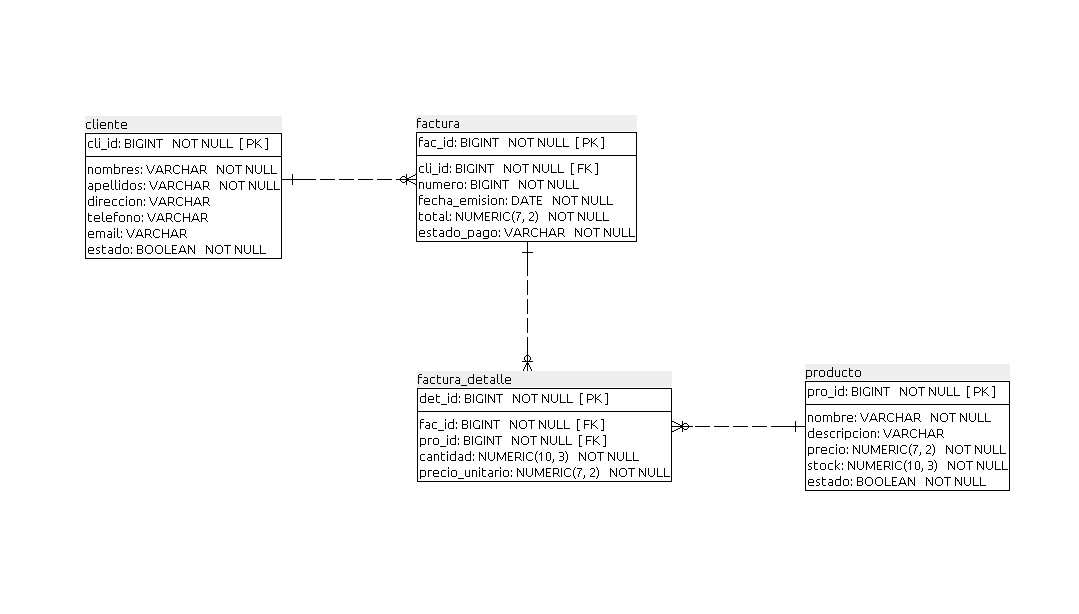
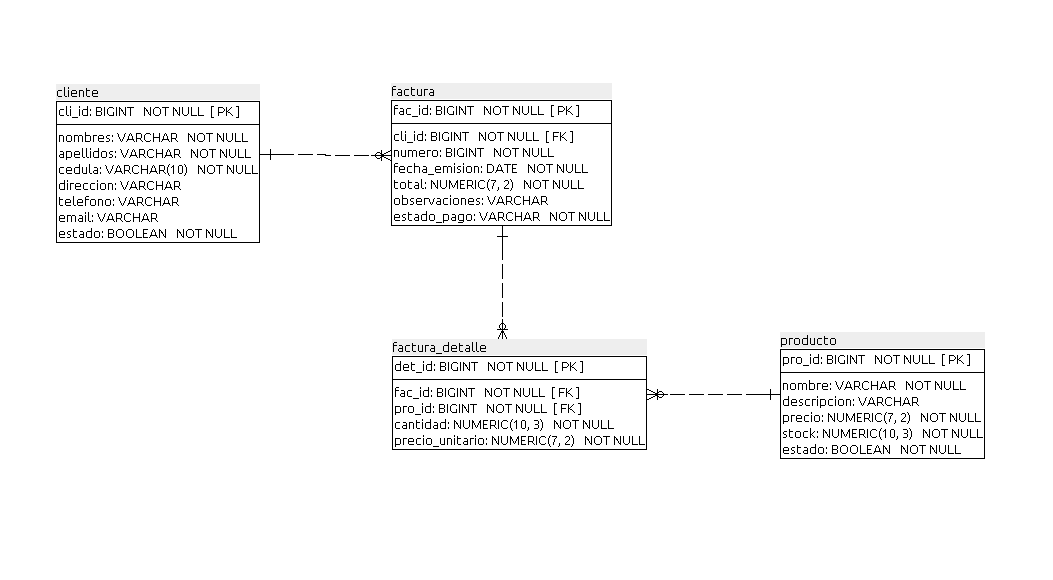
Cambio ResponseEntity para resultados en controller

diff --git a/facturacion-backend/src/main/java/com/restapi/facturacion_backend/presentation/controller/FacturaController.java b/facturacion-backend/src/main/java/com/restapi/facturacion_backend/presentation/controller/FacturaController.java
@@ -3,11 +3,9 @@ package com.restapi.facturacion_backend.presentation.controller;
 import com.restapi.facturacion_backend.business.service.FacturaService;
 import com.restapi.facturacion_backend.business.vo.FacturaUpdateVO;
 import com.restapi.facturacion_backend.business.vo.FacturaVO;
-import com.restapi.facturacion_backend.presentation.util.handler.ResponseHandler;
 import jakarta.validation.Valid;
 import jakarta.validation.constraints.NotNull;
 import org.springframework.beans.factory.annotation.Autowired;
-import org.springframework.http.HttpStatus;
 import org.springframework.http.ResponseEntity;
 import org.springframework.validation.annotation.Validated;
 import org.springframework.web.bind.annotation.*;
@@ -22,29 +20,27 @@ public class FacturaController {
 
     @GetMapping("/siguiente-numero")
     public ResponseEntity<Object> obtenerNumero() {
-        return ResponseHandler.generateResponse(HttpStatus.OK, facturaService.obtenerSiguienteNumero());
+        return ResponseEntity.ok(facturaService.obtenerSiguienteNumero());
     }
 
     @GetMapping("/listar-todas")
     public ResponseEntity<Object> obtenerFacturas() {
-        return ResponseHandler.generateResponse(HttpStatus.OK, facturaService.obtenerFacturas());
+        return ResponseEntity.ok(facturaService.obtenerFacturas());
     }
 
     @GetMapping("/{facturaId}")
     public ResponseEntity<Object> obtenerPorId(@Valid @NotNull @PathVariable("facturaId") Long facturaId) {
-        return ResponseHandler.generateResponse(HttpStatus.OK, facturaService.obtenerPorId(facturaId));
+        return ResponseEntity.ok(facturaService.obtenerPorId(facturaId));
     }
 
     @PostMapping("/registrar")
     public ResponseEntity<Object> registrarFactura(@Valid @RequestBody FacturaVO nuevaFactura) {
-        return ResponseHandler.generateResponse("Factura registrada correctamente", HttpStatus.CREATED,
-                facturaService.registrarFactura(nuevaFactura));
+        return ResponseEntity.ok(facturaService.registrarFactura(nuevaFactura));
     }
 
     @PutMapping("/actualizar/{facturaId}")
     public ResponseEntity<Object> actualizarFactura(@Valid @NotNull @PathVariable("facturaId") Long facturaId,
                                                     @Valid @RequestBody FacturaUpdateVO facturaActualizada) {
-        return ResponseHandler.generateResponse("Factura actualizada correctamente", HttpStatus.OK,
-                facturaService.actualizarFactura(facturaId, facturaActualizada));
+        return ResponseEntity.ok(facturaService.actualizarFactura(facturaId, facturaActualizada));
     }
 }

diff --git a/facturacion-backend/src/main/java/com/restapi/facturacion_backend/presentation/controller/ProductoController.java b/facturacion-backend/src/main/java/com/restapi/facturacion_backend/presentation/controller/ProductoController.java
@@ -2,11 +2,9 @@ package com.restapi.facturacion_backend.presentation.controller;
 
 import com.restapi.facturacion_backend.business.service.ProductoService;
 import com.restapi.facturacion_backend.business.vo.ProductoVO;
-import com.restapi.facturacion_backend.presentation.util.handler.ResponseHandler;
 import jakarta.validation.Valid;
 import jakarta.validation.constraints.NotNull;
 import org.springframework.beans.factory.annotation.Autowired;
-import org.springframework.http.HttpStatus;
 import org.springframework.http.ResponseEntity;
 import org.springframework.validation.annotation.Validated;
 import org.springframework.web.bind.annotation.*;
@@ -21,23 +19,22 @@ public class ProductoController {
 
     @GetMapping("/listar-todos")
     public ResponseEntity<Object> obtenerProductos() {
-        return ResponseHandler.generateResponse(HttpStatus.OK, productoService.obtenerProductos());
+        return ResponseEntity.ok(productoService.obtenerProductos());
     }
 
     @PostMapping("/registrar")
     public ResponseEntity<Object> registrarProducto(@Valid @RequestBody ProductoVO nuevoProducto) {
-        return ResponseHandler.generateResponse("Producto registrado correctamente", HttpStatus.CREATED,
-                productoService.registrarProducto(nuevoProducto));
+        return ResponseEntity.ok(productoService.registrarProducto(nuevoProducto));
     }
 
     @PutMapping("/actualizar/{productoId}")
     public ResponseEntity<Object> actualizarProducto(@Valid @RequestBody ProductoVO productoActualizado,
                                                      @Valid @NotNull @PathVariable("productoId") Long productoId) {
-        return ResponseHandler.generateResponse(HttpStatus.OK, productoService.actualizarProducto(productoId,productoActualizado));
+        return ResponseEntity.ok(productoService.actualizarProducto(productoId,productoActualizado));
     }
 
     @PutMapping("/cambiar-estado/{productoId}")
     public ResponseEntity<Object> cambiarEstado(@Valid @NotNull @PathVariable("productoId") Long productoId) {
-        return ResponseHandler.generateResponse(HttpStatus.OK, productoService.cambioEstado(productoId));
+        return ResponseEntity.ok(productoService.cambioEstado(productoId));
     }
 }

diff --git a/facturacion-backend/src/main/java/com/restapi/facturacion_backend/presentation/controller/ClienteController.java b/facturacion-backend/src/main/java/com/restapi/facturacion_backend/presentation/controller/ClienteController.java
@@ -1,12 +1,12 @@
 package com.restapi.facturacion_backend.presentation.controller;
 
 import com.restapi.facturacion_backend.business.service.ClienteService;
-import com.restapi.facturacion_backend.presentation.util.handler.ResponseHandler;
 import org.springframework.beans.factory.annotation.Autowired;
-import org.springframework.http.HttpStatus;
 import org.springframework.http.ResponseEntity;
 import org.springframework.validation.annotation.Validated;
-import org.springframework.web.bind.annotation.*;
+import org.springframework.web.bind.annotation.GetMapping;
+import org.springframework.web.bind.annotation.RequestMapping;
+import org.springframework.web.bind.annotation.RestController;
 
 @Validated
 @RestController
@@ -18,6 +18,6 @@ public class ClienteController {
 
     @GetMapping("/listar-todos")
     public ResponseEntity<Object> obtenerClientes() {
-        return ResponseHandler.generateResponse(HttpStatus.OK, clienteService.obtenerClientes());
+        return ResponseEntity.ok(clienteService.obtenerClientes());
     }
 }

diff --git a/facturacion-backend/src/main/java/com/restapi/facturacion_backend/persistence/entity/Cliente.java b/facturacion-backend/src/main/java/com/restapi/facturacion_backend/persistence/entity/Cliente.java
@@ -12,8 +12,8 @@ import java.util.List;
 @Getter
 @Setter
 @NoArgsConstructor
-@Entity
 @Table(name = "cliente")
+@Entity
 public class Cliente implements Serializable {
     private static final long serialVersionUID = 1L;
 
@@ -30,6 +30,9 @@ public class Cliente implements Serializable {
 
     @Column(name = "direccion", length = Integer.MAX_VALUE)
     private String direccion;
+
+    @Column(name = "cedula", nullable = false, length = 10)
+    private String cedula;
 
     @Column(name = "telefono", length = Integer.MAX_VALUE)
     private String telefono;

diff --git a/facturacion-backend/src/main/java/com/restapi/facturacion_backend/persistence/entity/Factura.java b/facturacion-backend/src/main/java/com/restapi/facturacion_backend/persistence/entity/Factura.java
@@ -37,6 +37,9 @@ public class Factura implements Serializable {
     @Column(name = "total", nullable = false, precision = 7, scale = 2)
     private BigDecimal total;
 
+    @Column(name = "observaciones", length = Integer.MAX_VALUE)
+    private String observaciones;
+
     @Column(name = "estado_pago", nullable = false, length = Integer.MAX_VALUE)
     private String estadoPago;
 

diff --git a/facturacion-backend/src/main/java/com/restapi/facturacion_backend/business/vo/ClienteVO.java b/facturacion-backend/src/main/java/com/restapi/facturacion_backend/business/vo/ClienteVO.java
@@ -18,6 +18,9 @@ public class ClienteVO implements Serializable {
     @NotNull(message = "apellidos can not null")
     private String apellidos;
 
+    @NotNull(message = "cedula can not null")
+    private String cedula;
+
     private String direccion;
 
     private String telefono;

diff --git a/facturacion-backend/src/main/java/com/restapi/facturacion_backend/business/vo/FacturaVO.java b/facturacion-backend/src/main/java/com/restapi/facturacion_backend/business/vo/FacturaVO.java
@@ -20,6 +20,8 @@ public class FacturaVO implements Serializable {
     @NotNull(message = "total can not null")
     private BigDecimal total;
 
+    private String observaciones;
+
     @NotNull(message = "estadoPago can not null")
     private String estadoPago;
 

diff --git a/facturacion-backend/src/main/java/com/restapi/facturacion_backend/business/dto/ClienteDTO.java b/facturacion-backend/src/main/java/com/restapi/facturacion_backend/business/dto/ClienteDTO.java
@@ -10,6 +10,8 @@ public class ClienteDTO implements Serializable {
     private static final long serialVersionUID = 1L;
     private Long cliId;
 
+    private String cedula;
+
     private String nombres;
 
     private String apellidos;

diff --git a/facturacion-backend/src/main/java/com/restapi/facturacion_backend/business/dto/FacturaDTO.java b/facturacion-backend/src/main/java/com/restapi/facturacion_backend/business/dto/FacturaDTO.java
@@ -21,6 +21,8 @@ public class FacturaDTO implements Serializable {
 
     private BigDecimal total;
 
+    private String observaciones;
+
     private String estadoPago;
 
     private List<FacturaDetalleDTO> facturaDetalles;
